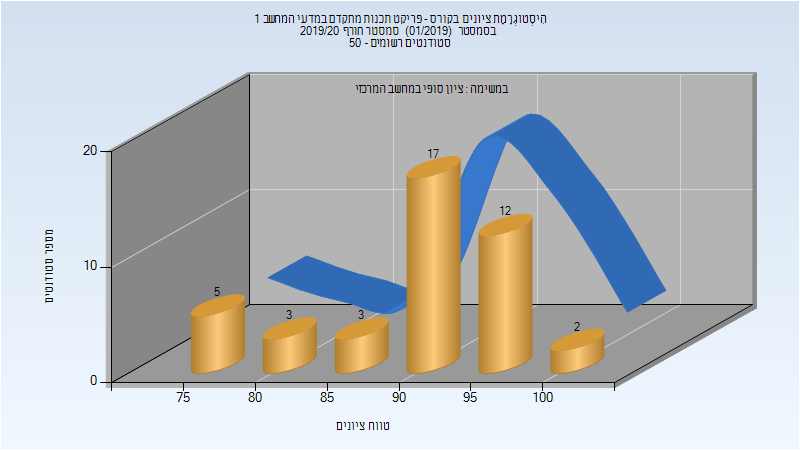
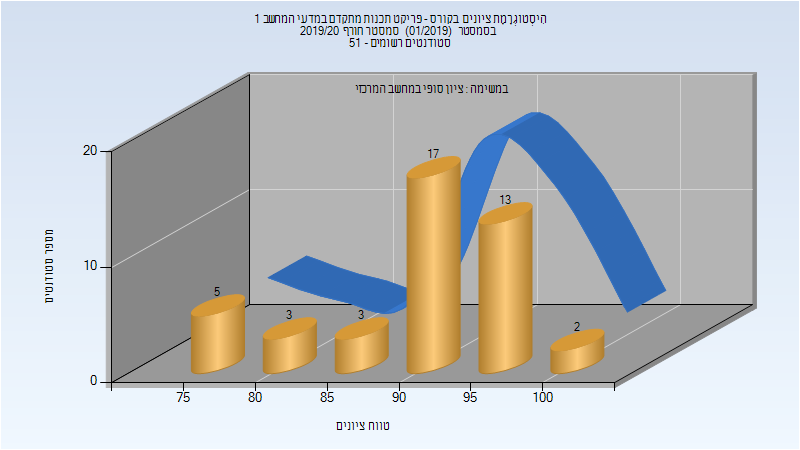
Deploy michael-maltsev/technion-histograms to github.com/michael-maltsev/technion-histograms.git:gh-pages

diff --git a/236503/index.html b/236503/index.html
@@ -50,12 +50,12 @@
 </thead>
 <tbody>
 <tr>
-<td>42</td>
-<td>42/0</td>
+<td>43</td>
+<td>43/0</td>
 <td>100</td>
 <td>75</td>
 <td>100</td>
-<td>91.667</td>
+<td>91.744</td>
 <td>94</td>
 </tr>
 </tbody>

diff --git a/104134/index.html b/104134/index.html
@@ -2140,7 +2140,7 @@
 <td>82</td>
 <td>18</td>
 <td>100</td>
-<td>69.979</td>
+<td>69.901</td>
 <td>73</td>
 </tr>
 </tbody>

diff --git a/104134/README.md b/104134/README.md
@@ -673,7 +673,7 @@
 
 | סטודנטים | עברו/נכשלו | אחוז עוברים | ציון מינימלי | ציון מקסימלי | ממוצע | חציון |
 | ---- | ---- | ---- | ---- | ---- | ---- | ---- |
-| 193 | 159/34 | 82 | 18 | 100 | 69.979 | 73 |
+| 193 | 159/34 | 82 | 18 | 100 | 69.901 | 73 |
 
 ## אביב 2020
 

diff --git a/236503/README.md b/236503/README.md
@@ -12,5 +12,5 @@
 
 | סטודנטים | עברו/נכשלו | אחוז עוברים | ציון מינימלי | ציון מקסימלי | ממוצע | חציון |
 | ---- | ---- | ---- | ---- | ---- | ---- | ---- |
-| 42 | 42/0 | 100 | 75 | 100 | 91.667 | 94 |
+| 43 | 43/0 | 100 | 75 | 100 | 91.744 | 94 |
 
